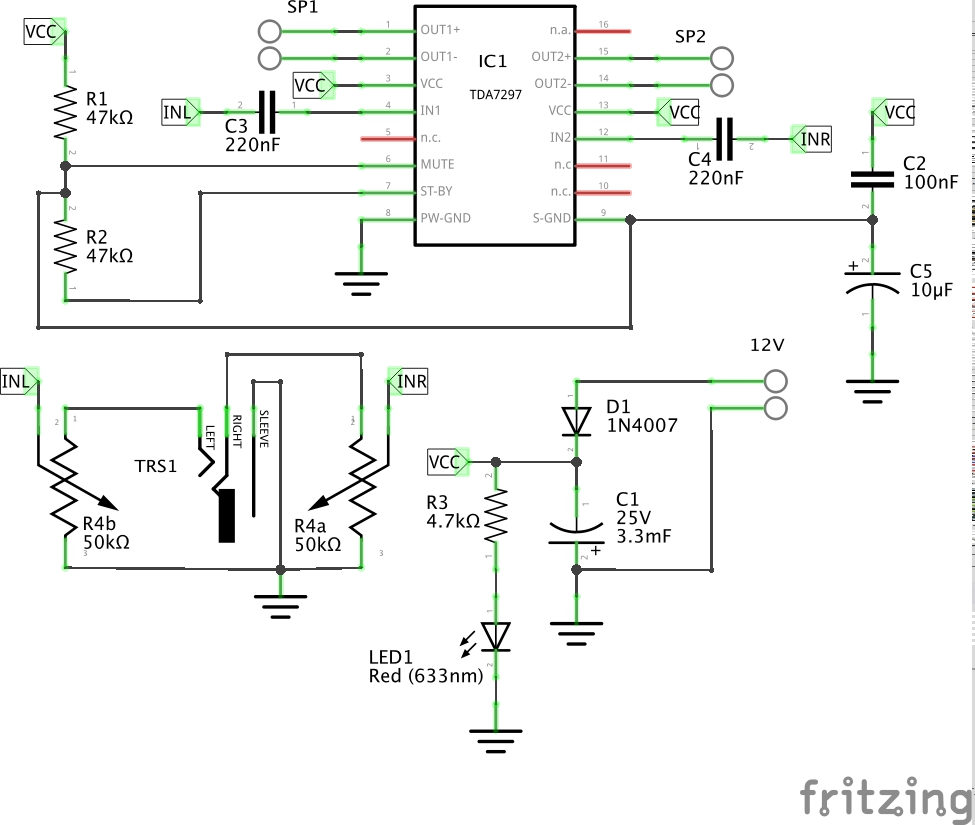
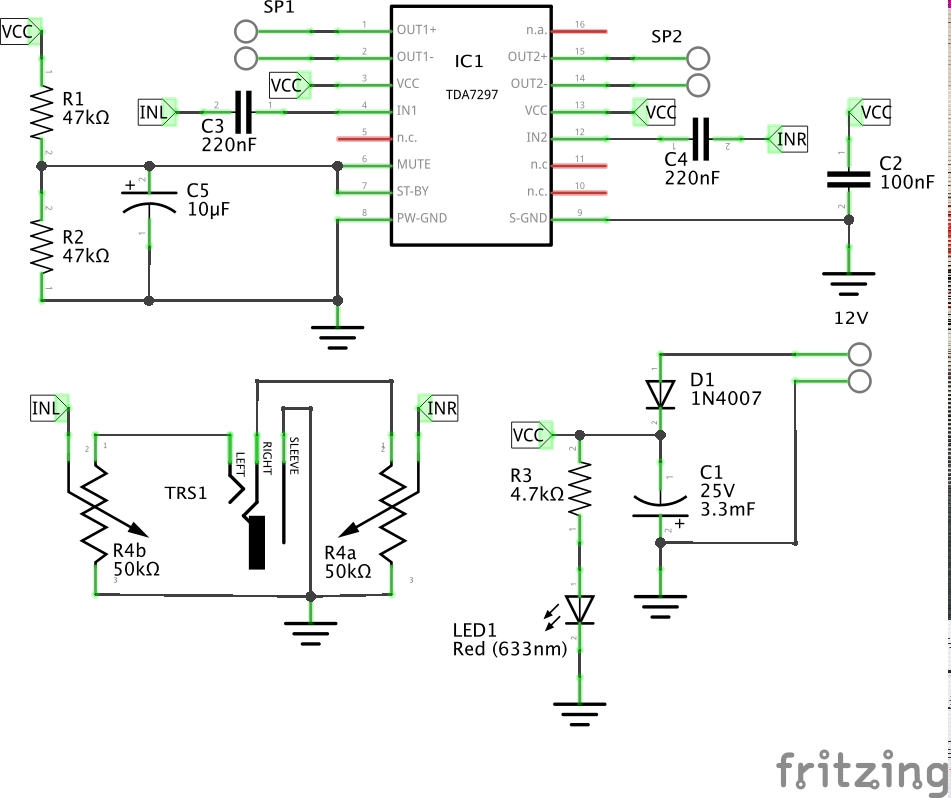
[TDA7297Kit] revise schematic

diff --git a/Electronics101/AudioAmps/TDA7297Kit/README.md b/Electronics101/AudioAmps/TDA7297Kit/README.md
@@ -1,6 +1,6 @@
 # #210 AudioAmps/TDA7297Kit
 
-Testing a TDA7297 audio amplifier kit
+Testing a TDA7297 audio amplifier kit (Pump Up the Jam)
 
 [![TDA7297Kit](http://img.youtube.com/vi/nQl3t_fRrIQ/0.jpg)](http://www.youtube.com/watch?v=nQl3t_fRrIQ)
 
@@ -13,7 +13,9 @@ Performance is very good, although my impromptu speaker boxes don't do it justic
 
 ![TDA7297Kit_build_case](./assets/TDA7297Kit_build_case.jpg?raw=true)
 
-The circuit is very close to the examples in the datasheet app notes. The TDA7297 is a very easy ship to work with.
+The circuit is very close to the examples in the datasheet app notes,
+using the "Stand-alone Low-cost Application" method of managing standby and mute inputs.
+The TDA7297 is a very easy ship to work with.
 
 ## Construction
 
